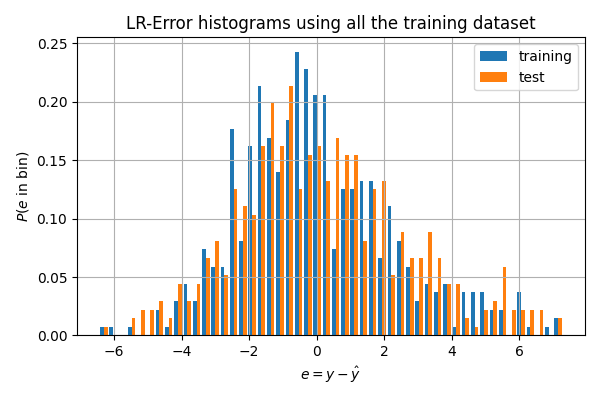
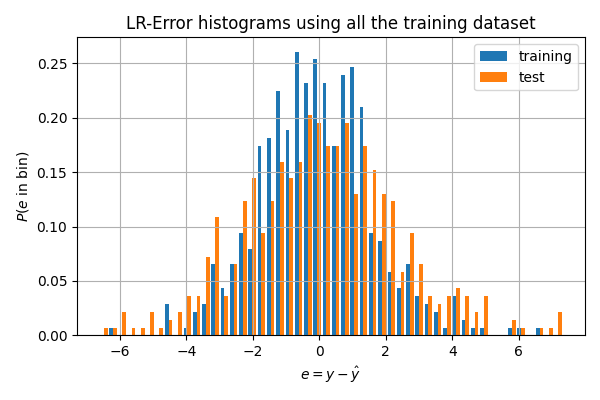
diferrent tests

diff --git a/LAB01/parkinson.py b/LAB01/parkinson.py
@@ -8,6 +8,7 @@ import numpy as np
 import matplotlib.pyplot as plt
 import pandas as pd
 
+np.random.seed(309709)
 # Simple function to perform the average
 def average(l):
     return sum(l)/len(l)
@@ -90,8 +91,8 @@ if __name__ == "__main__":
     R1.steepestDescent()
     # Compare the weight vectors found with LLS and SD 
     R1.plot_LLS_vs_SD()
-    # Local regression with N = 100, using steepest descent algorithm
-    R1.localRegression(100)
+    # Local regression with N = 40, using steepest descent algorithm
+    R1.localRegression(40)
     
     R1.denormalize()    # denormalize the data
     R1.plotRegressionLine(title="regressionline_LLS", algorithm="LLS")  # Regression line for LLS
@@ -136,8 +137,8 @@ if __name__ == "__main__":
         R1.LLS()
         # Steepest descent algorithm
         R1.steepestDescent()
-        # Local regression with N = 100, using steepest descent algorithm
-        R1.localRegression(100)
+        # Local regression with N = 40, using steepest descent algorithm
+        R1.localRegression(40)
         
         R1.denormalize()    # denormalize the data
         # Append the error dataframe defined in class LocalRegression for all the methods

diff --git a/LAB01/sub/regression.py b/LAB01/sub/regression.py
@@ -178,7 +178,7 @@ class LinearRegression:
         plt.axis('square')
         plt.ylabel(r'$\^y$')
         plt.grid()
-        plt.title(f'Regressione line for {title}')
+        plt.title(f'Regressione line for {algorithm}')
         plt.tight_layout()
         plt.savefig(f'C:\Coding\ICT_for_health\LAB01\charts\{title}')
         plt.show()

diff --git a/LAB01/sub/minimization.py b/LAB01/sub/minimization.py
@@ -1,7 +1,7 @@
 import numpy as np
 import matplotlib.pyplot as plt
 
-np.random.seed(309709)
+
 
 class SolveMinProbl:
     """
